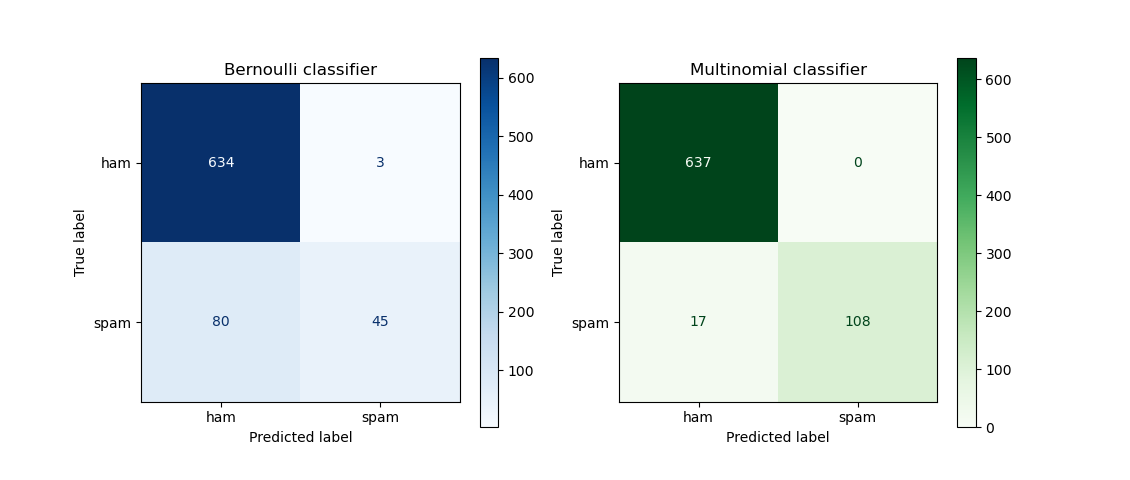
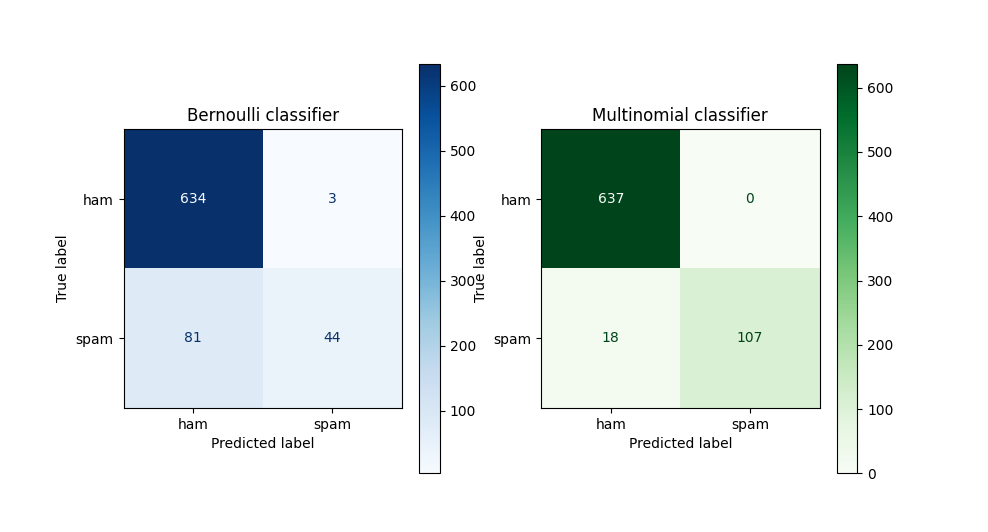
Add new images

diff --git a/assignment4/report.md b/assignment4/report.md
@@ -116,8 +116,8 @@ and include the results in your report.
  
 Spam versus easy ham:
  
-- **Multinomial**: Approximately `97.8 %` of the emails were classified correctly.
-- **Bernoulli:** Approximately `89.1 %` of the emails were classified correctly.
+- **Multinomial**: Approximately `97.6 %` of the emails were classified correctly.
+- **Bernoulli:** Approximately `89 %` of the emails were classified correctly.
  
 The confusion matrices below shows that both classifiers were good at classifying ham correctly, but sometimes classified spam as ham. The bernoulli classifier had problems classifying spam as it classified more spam as ham than it classified spam as spam.
  
@@ -128,8 +128,8 @@ The confusion matrices below shows that both classifiers were good at classifyin
  
 Spam versus hard ham:
  
-- **Multinomial**: Approximately `90.9 %` of the emails were classified correctly. The confusion matrix below shows that the classifier was quite accurate but classified both ham and spam wrong sometimes.
-- **Bernoulli**: Approximately `82.4 %` of the emails were classified correctly. The confusion matrix below shows that the bernoulli classifier very accurately classified spam as spam, but sometimes classified ham as spam.
+- **Multinomial**: Approximately `90.4 %` of the emails were classified correctly. The confusion matrix below shows that the classifier was quite accurate but classified both ham and spam wrong sometimes.
+- **Bernoulli**: Approximately `81.8 %` of the emails were classified correctly. The confusion matrix below shows that the bernoulli classifier very accurately classified spam as spam, but sometimes classified ham as spam.
  
 <p align="center">
    <img src="fig/q2_hard_ham_confusion.png">
